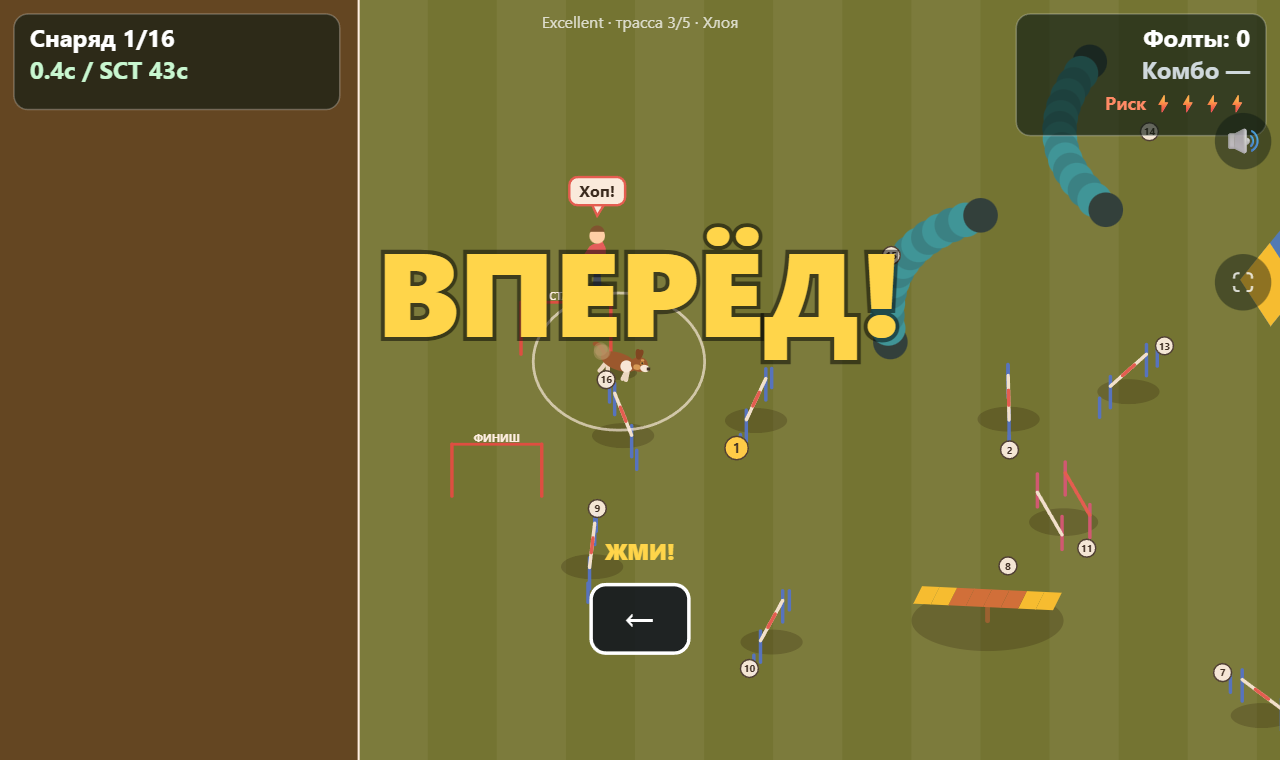
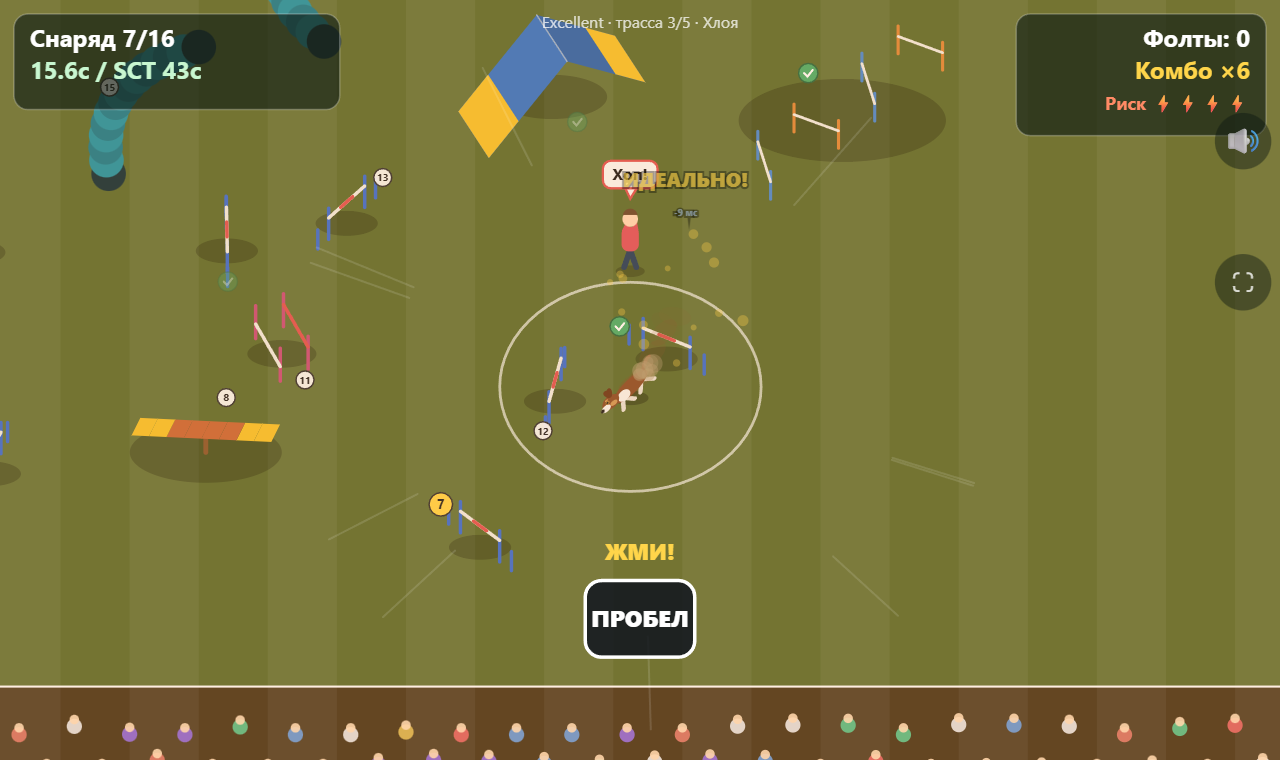
Результаты: медаль снова герой — крупная (52z) со свечением, без рамки; больше воздуха у строки Хлои внизу (панель 600/668) (#30)

diff --git a/js/main.js b/js/main.js
@@ -2580,11 +2580,11 @@ function drawResults(run, z) {
     run._stamps = run._stamps || {};
     if (ft >= a && !run._stamps[a]) { run._stamps[a] = 1; audio.click(); }
   };
-  const pw = Math.min(520 * z, w * 0.9), ph = Math.min((IS_TOUCH ? 626 : 556) * z, h * 0.94);
+  const pw = Math.min(520 * z, w * 0.9), ph = Math.min((IS_TOUCH ? 668 : 600) * z, h * 0.96);
   const px = w / 2 - pw / 2, py = h / 2 - ph / 2;
-  // Слоты нижней части протокола — единый ритм, без слипания (по ревью Codex):
-  //   slot1 — итог против времени/призрака, slot2 — медаль-баннер, slot3 — награда+XP, slot4 — промо
-  const SL = { one: 332 * z, two: 372 * z, earn: 410 * z, chloe: 456 * z };
+  // Слоты нижней части протокола: медаль — герой (крупная, без рамки), внизу у Хлои воздух.
+  //   slot1 — итог против времени/призрака, medal — крупная медаль, earn — награда+XP, chloe — промо
+  const SL = { one: 334 * z, medal: 394 * z, medalCap: 414 * z, earn: 438 * z, chloe: 496 * z };
   ctx.save();
   // Сильнее гасим сцену за протоколом (по ревью Codex: конфетти/HUD мешали читать)
   ctx.fillStyle = `rgba(6,12,10,${0.86 * ease(0, 0.3)})`;
@@ -2692,25 +2692,22 @@ function drawResults(run, z) {
     ctx.fillText(msg, w / 2, py + SL.one);
   }
 
-  // slot2 — медаль баннером (мокап): пилюля с иконкой слева и подписью
+  // Медаль — герой протокола: крупная, без рамки, с лёгким свечением и bounce.
   if (res.stars > 0 && ft >= 3.0) {
     stamp(3.0);
     const k = ease(3.0, 0.35);
-    const bounce = 1 + Math.sin(k * Math.PI) * 0.4;
-    const medalName = { 4: 'Бриллиант', 3: 'Золото', 2: 'Серебро', 1: 'Бронза' }[res.stars] || '';
-    const cap = app.newMedal && ft > 3.4 ? 'Новая медаль!' : medalName;
-    const bw = pw - 100 * z, bx = w / 2 - bw / 2, byy = py + SL.two - 16 * z;
+    const bounce = 1 + Math.sin(k * Math.PI) * 0.5;
     ctx.save();
-    ctx.fillStyle = 'rgba(255,213,74,0.14)';
-    ctx.strokeStyle = 'rgba(255,213,74,0.5)'; ctx.lineWidth = 1.5;
-    ctx.beginPath(); ctx.roundRect(bx, byy, bw, 32 * z, 10 * z); ctx.fill(); ctx.stroke();
-    ctx.textAlign = 'left'; ctx.textBaseline = 'middle';
-    ctx.font = `${Math.round(22 * z * bounce)}px "Segoe UI", sans-serif`;
-    ctx.fillText(MEDAL_ICON[res.stars], bx + 14 * z, byy + 16 * z + 1);
-    ctx.fillStyle = '#ffe9a8';
-    ctx.font = `bold ${Math.round(16 * z)}px "Segoe UI", sans-serif`;
-    ctx.fillText(cap, bx + 46 * z, byy + 16 * z + 1);
+    ctx.textAlign = 'center';
+    ctx.shadowColor = 'rgba(255,213,74,0.6)'; ctx.shadowBlur = 18 * z;
+    ctx.font = `${Math.round(52 * z * bounce)}px "Segoe UI", sans-serif`;
+    ctx.fillText(MEDAL_ICON[res.stars], w / 2, py + SL.medal);
     ctx.restore();
+    if (app.newMedal && ft > 3.4) {
+      ctx.fillStyle = '#ffd54a';
+      ctx.font = `bold ${Math.round(17 * z)}px "Segoe UI", sans-serif`;
+      ctx.fillText('Новая медаль!', w / 2, py + SL.medalCap);
+    }
   }
 
   // slot3 — награда за прогон + XP-бар собаки, сгруппированы в блок